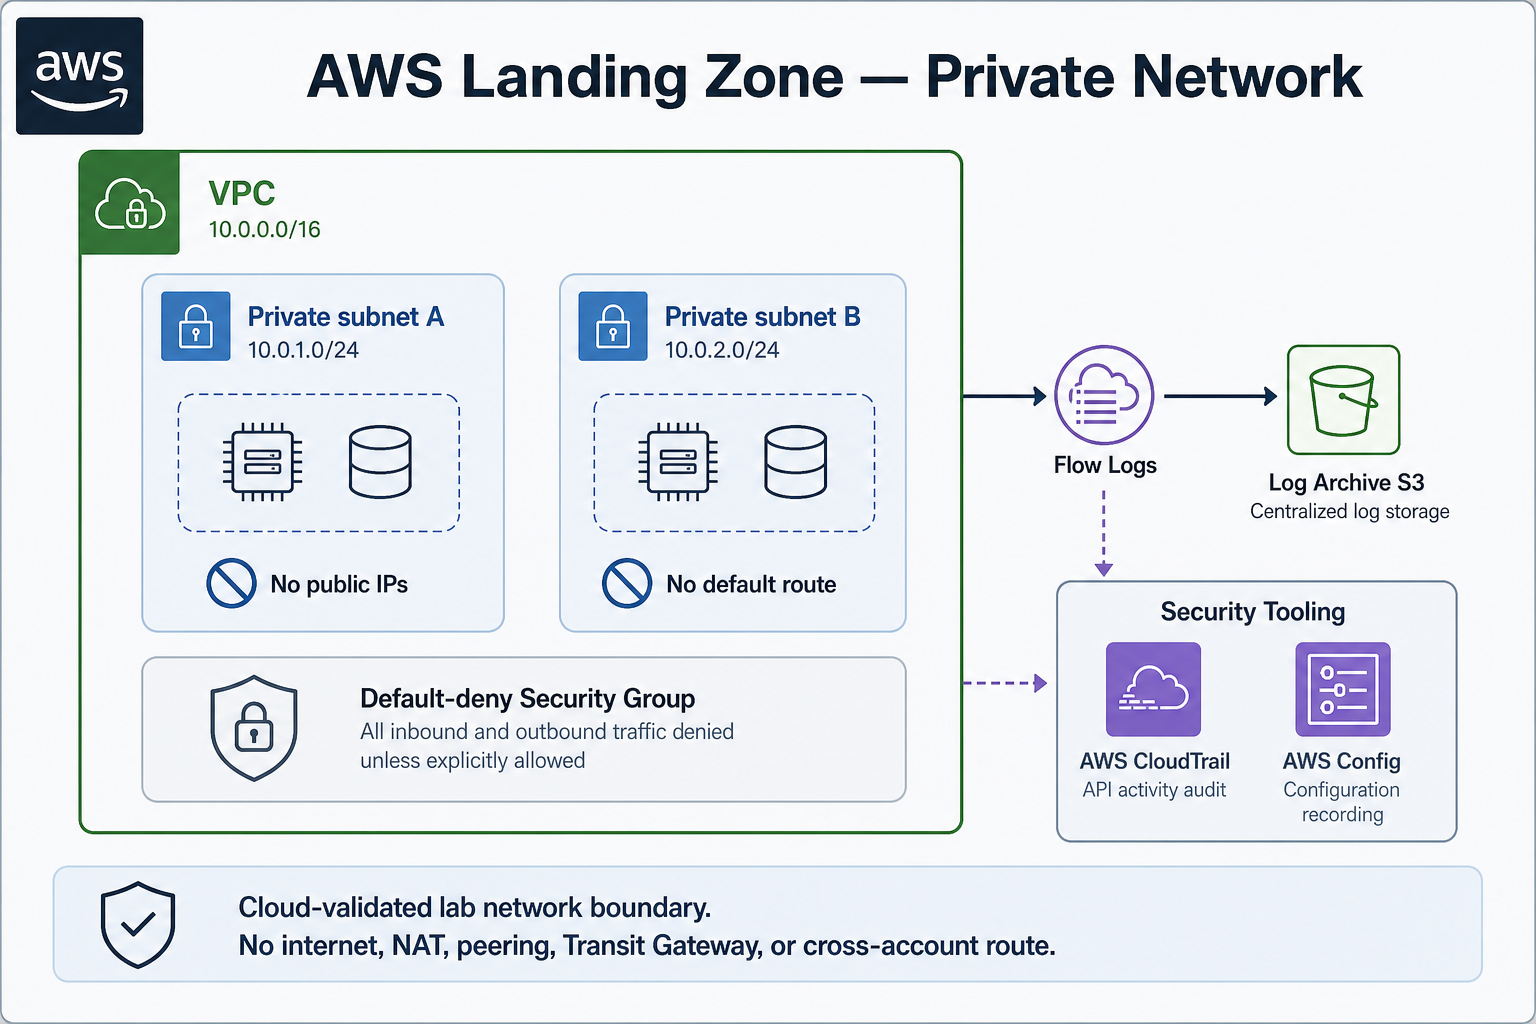
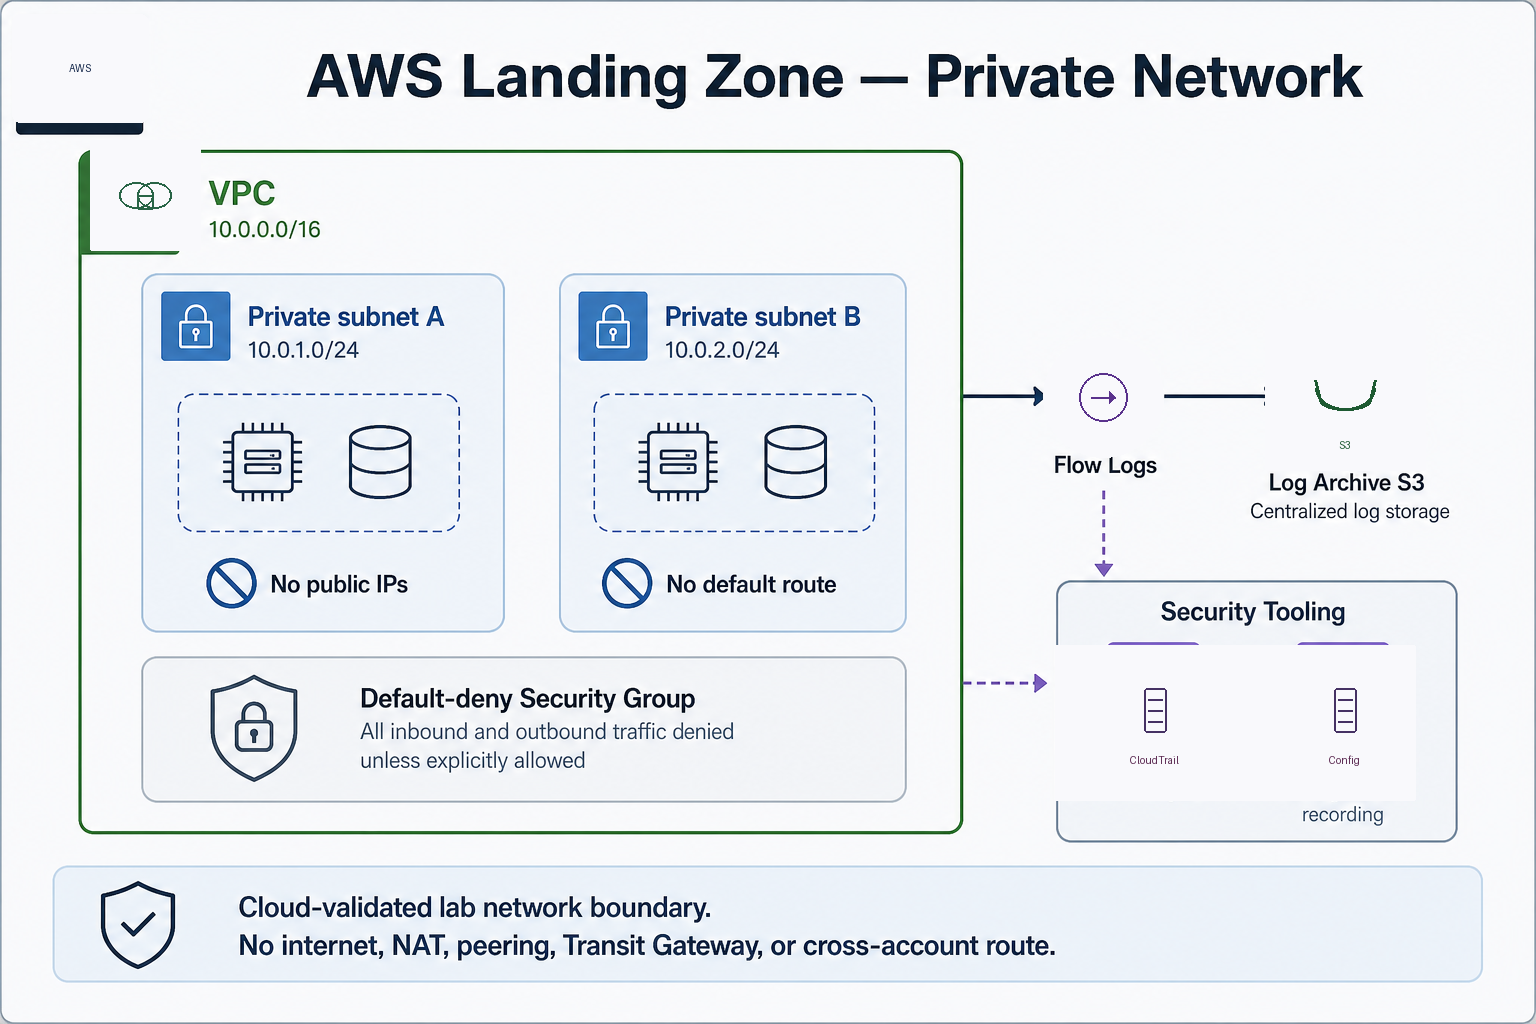
docs: publish generic-symbol landing-zone figures
* fix: composite unmodified official marks onto Image2 diagrams

Replace AI-redrawn GitHub, Terraform, and AWS marks with files from
platform/docs/brand/. Keep Image2 layout/style; add deterministic
composite_official_marks.py for reproducible updates.

* fix: use generic icons and word marks instead of logo paste

Wipe AI-drawn third-party logos from Image2 sources and replace with
generic illustrations plus plain product-name badges. No vendor logo
artwork is composited on top of prior marks.

* fix: wipe AI logos; keep text word marks and generic icons only

Remove sticker badges and brand-asset pastes. Erase AI-drawn third-party
logos from pristine Image2 sources and replace with simple line icons;
existing diagram captions supply the product names.

* fix: extend logo wipes; remove remaining AI butler/terraform remnants

* feat: regenerate lab figure with generic icons and word marks

Replace Pillow composite path with a fresh Image2 render that uses
generic icons and plain product-name text only. Delete composite_official_marks.py
and update brand/README notes accordingly.

* fix: regenerate AWS Landing Zone lab figure from scratch

Replace the prior Image2 composite with a clean from-scratch render
(generic icons + plain word marks) to remove leftover visual artifacts.

* fix: sleek lab figure with private-by-design network edge

Regenerate the consolidated diagram with sleek generic icons and rephrase
[…]

diff --git a/README.md b/README.md
@@ -19,17 +19,17 @@ Formerly the `cloud` monorepo; the Ralphy smoke harness now lives in
 |-------|----------------|
 | **A. Architecture** | Bootstrap → Organization (design) → Identity → Network → Audit → Validation. Live lab applied identity + network + audit in one account. |
 | **B. How it works** | Push → OIDC → Terraform (one account) → live resources → evidence. |
-| **C. Private network** | Private subnets, default-deny SG, Flow Logs → Log Archive. No internet, NAT, peering, Transit Gateway, or cross-account route. |
+| **C. Private network** | Private-by-design VPC: private subnets, default-deny SG, closed network edge (no IGW/NAT/peering/TGW unless added). Flow Logs → Log Archive. |
 
 <p align="center"><sub>
+Diagrams use generic icons and plain product-name text only (no third-party logo artwork).
 GitHub® and the Invertocat logo are trademarks of GitHub, Inc.
 Terraform and the Terraform logo are trademarks of HashiCorp.
-AWS and AWS service names / architecture icons are trademarks of Amazon.com, Inc. or its affiliates
-(<a href="https://aws.amazon.com/architecture/icons/">AWS Architecture Icons</a>).
-Marks identify tools used in this lab and do not imply affiliation or endorsement.
+AWS and AWS service names are trademarks of Amazon.com, Inc. or its affiliates.
+Names identify tools used in this lab and do not imply affiliation or endorsement.
 </sub></p>
 
-Official mark files: [`platform/docs/brand/`](platform/docs/brand/).
+Reference mark files (not used in these figures): [`platform/docs/brand/`](platform/docs/brand/).
 
 ## Repo map
 

diff --git a/platform/docs/brand/README.md b/platform/docs/brand/README.md
@@ -1,12 +1,16 @@
 # Brand assets (third-party marks)
 
-Official marks used in portfolio diagrams. Do not modify colors, proportions, or artwork.
+Official mark files are kept for reference / future licensed use only.
+Portfolio README PNGs ship with **generic icons + plain word marks**
+(nominative product names in text). Do not AI-redraw vendor logos, and do not
+paste these marks onto Image2 figures unless a separate licensed composite
+workflow is explicitly approved.
 
 | File | Source | Notes |
 |------|--------|--------|
-| `github-mark.png` / `.svg` | GitHub brand / Invertocat | Black mark; show integration with GitHub |
-| `terraform.png` / `terraform-*.svg` | HashiCorp Flight Icons | Unmodified Terraform mark |
-| `jenkins.png` / `.svg` | jenkins.io artwork (CC-BY-SA 3.0) | Classic butler; attribute + link jenkins.io |
-| `aws/*.png` | [AWS Architecture Icons](https://aws.amazon.com/architecture/icons/) Q1 2026 pack | Unmodified service icons |
+| `github-mark.png` / `.svg` | GitHub brand / Invertocat | Reference only |
+| `terraform.png` / `terraform-*.svg` / `terraform-mark.png` | HashiCorp Flight Icons | Reference only |
+| `jenkins.png` / `.svg` | jenkins.io artwork (CC-BY-SA 3.0) | Reference only |
+| `aws/*.png` | [AWS Architecture Icons](https://aws.amazon.com/architecture/icons/) Q1 2026 pack | Reference only |
 
 See parent README trademark footnotes for required attributions.
